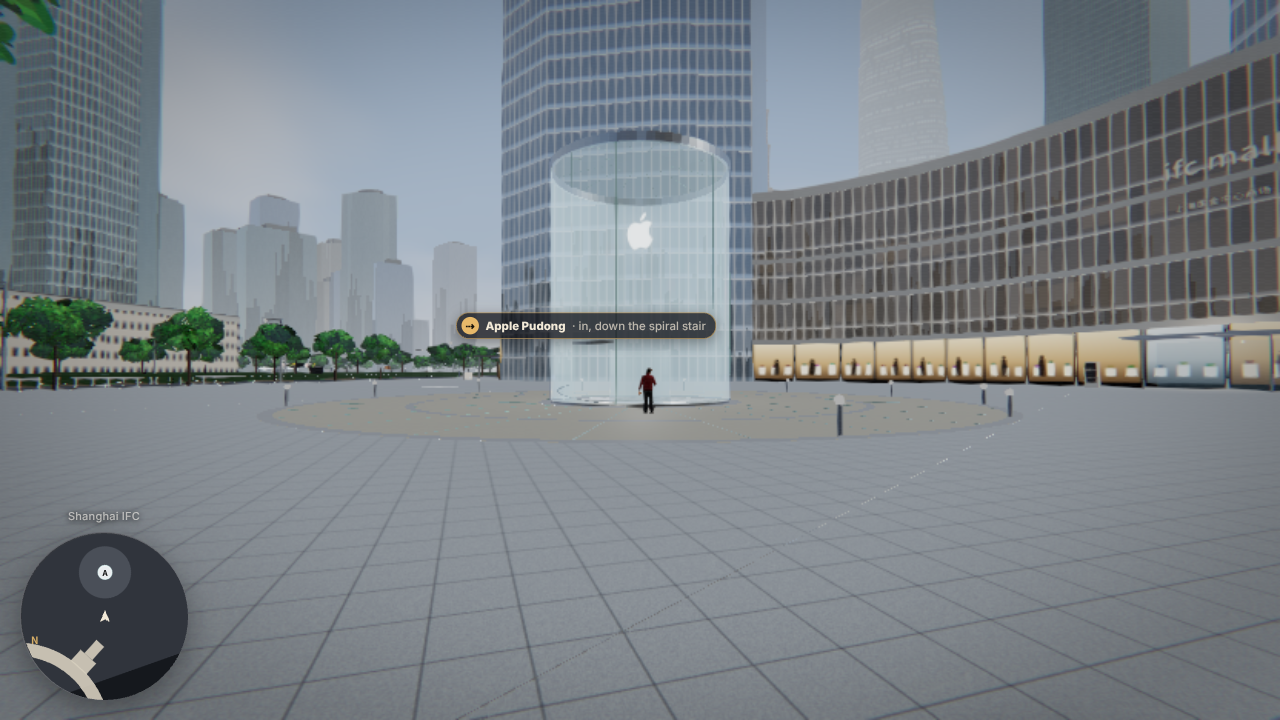
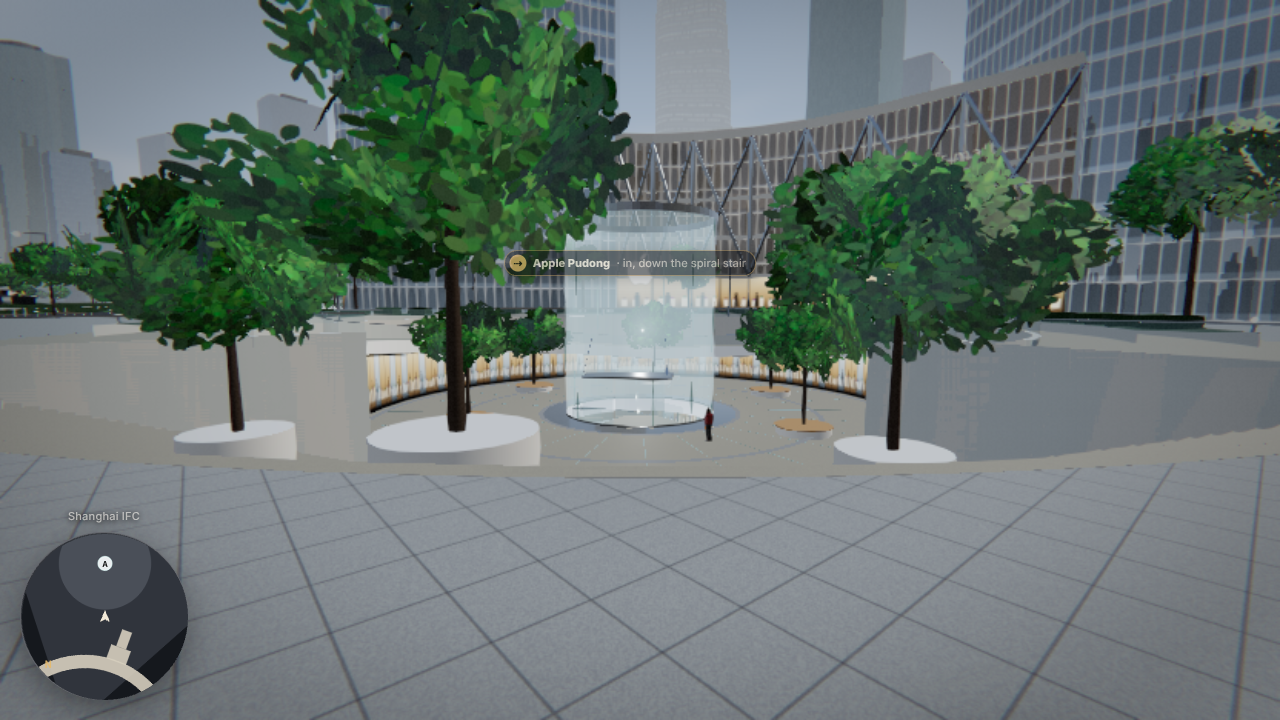
Apple Pudong: the sunken court, as the photographs show it
The cylinder stands in a sunken round court one storey down (OSM's paved
circle is its floor, its footway the walkways, its steps the broad steps):
broad steps with trees in planters down from the side toward the ring and
the Pearl; curved walkways behind glass balustrades sloping round the wall to
a landing at the back, an HSBC branch and a Starbucks beneath them; round
planters with timber seats; a glass rim, rim walk, planted bed and trumpet
lamps above. The cylinder gains a hung glass canopy over its door and a ring
of glass floor at its foot; the store moves one level down. The mall's glass
toward the court is X-braced. The river's plane stops at the Pudong bank
while you are there so it no longer shows through the court. Walk rules,
tests, walkthrough and docs follow.

Claude-Session: https://claude.ai/code/session_018TEJd4e7P4WktLNdqmW4gm

diff --git a/src/world/lujiazuiBuild.js b/src/world/lujiazuiBuild.js
@@ -11,7 +11,7 @@ import { markCanvas } from '../ui/brands.js';
 import { LINE_COLOR } from './nanjingRoad.js';
 import {
   C, RC, RING, ARMS, COLUMNS, SPUR, RAMPS, APPLE, METRO_LJZ, IFC, BUILDINGS, GREEN, LAKE, CANOPY, LOOP, BENCHES, YIN, ZEBRAS, CH, AVE, AVE_ROT, LOBBY, PEARL_PARK,
-  dirOf, polar, rpolar, fromAP, toAP, applePt, wellPt, carriage, inDistrict, inLake, inGreen, inPoly, inBuilding, polyDist, loopPt, addBox, addCircle, LJZ,
+  dirOf, polar, rpolar, fromAP, toAP, applePt, wellPt, carriage, inDistrict, inLake, inGreen, inPoly, inBuilding, polyDist, loopPt, addBox, addCircle, LJZ, rampY, stepsY,
 } from './lujiazuiLayout.js';
 import { facadeGlass } from './facade.js';
 import { kindAt, KIND, parkPath } from './lujiazuiGround.js';
@@ -161,16 +161,76 @@ function appleLogo() {
   const s = 512 * 0.8 / 24; x.translate(512 * 0.1, 512 * 0.1); x.scale(s, s); x.fillStyle = '#fff'; x.fill(new Path2D(siApple.path));
   return tex(c, { repeat: false, aniso: 8 });
 }
-export function buildApple(g, m, lights) {
-  const A = APPLE, yP = A.yPlaza, yS = A.yStore, o = A, E = A.entry, yCeil = yP - 1.0;
+export function buildApple(g, m, lights, trees = []) {
+  const A = APPLE, yP = A.yPlaza, yS = A.yStore, o = A, E = A.entry, yCeil = yP - 1.0, T = A.steps, RP = A.ramp;
   const floor = new Tris(1.6), band = new Tris(1.6), ag = new Tris(), seam = new Batch(), st = new Batch(), wood = new Batch(), ceil = new Tris(), storeWall = new Tris(), treads = new Tris(), dark = new Batch(), oak = new Tris(1.2);
-  // ---- the plaza: pale granite at street level, flush with the pavement; darker bands mark the cylinder's sill,
-  // a ring halfway out and the plaza's edge (the reflecting pool that once ringed the cylinder went in the rebuild)
-  floor.arc(o, A.rCyl + 0.6, A.rOut, 0, 360, yP, 90);
-  floor.arc(o, A.rCore, A.rCyl + 0.6, E + A.landing[0], E + A.landing[1], yP, 12);            // the landing inside the cylinder
-  floor.arc(o, A.rCyl, A.rCyl + 0.6, E + A.landing[1], E + 360 + A.landing[0], yP, 40);
-  for (const [r0, r1] of [[A.rCyl - 0.02, A.rCyl + 0.6], [11.7, 12.1], [A.rOut - 0.5, A.rOut]]) band.arc(o, r0, r1, 0, 360, yP + 0.004, 90);
-  for (let i = 0; i < 24; i++) { const b = E + 7.5 + i * 15, [x0, z0] = polar(b, A.rCyl + 0.6, o), [x1, z1] = polar(b, A.rOut - 0.5, o), [dx, dz] = dirOf(b); obox(seam, (x0 + x1) / 2, yP - 0.004, (z0 + z1) / 2, dx, dz, Math.hypot(x1 - x0, z1 - z0), 0.012, 0.05); }
+  const wallT = new Tris(2), gl = new Tris(), deck = new Tris(1.6), fascia = new Tris(), shopT = new Tris(), soil = new Tris(), glassFloor = new Tris(), stone = new Batch();
+  const B = (ang) => E + ang, P3 = (ang, r, y) => { const [x, z] = polar(E + ang, r, o); return [x, y, z]; };
+  // ---- the court's floor: pale granite, darker bands; a ring of glass floor round the cylinder's foot, over the store
+  floor.arc(o, A.rCyl + 1.5, A.rPlaza, 0, 360, yP, 90);
+  floor.arc(o, A.rCore, A.rCyl + 0.6, B(A.landing[0]), B(A.landing[1]), yP, 12);                   // the landing inside the cylinder
+  glassFloor.arc(o, A.rCyl + 0.05, A.rCyl + 1.5, 0, 360, yP + 0.003, 72);
+  floor.arc(o, A.rPlaza, A.rampIn, B(T.wall), B(360 - T.wall), yP, 60);                           // the floor's edge before the shops
+  for (const [r0, r1] of [[A.rCyl + 1.5, A.rCyl + 1.8], [11.7, 12.05], [A.rPlaza - 0.4, A.rPlaza]]) band.arc(o, r0, r1, 0, 360, yP + 0.004, 90);
+  for (let i = 0; i < 24; i++) { const b = E + 7.5 + i * 15, [x0, z0] = polar(b, A.rCyl + 1.8, o), [x1, z1] = polar(b, A.rPlaza - 0.4, o), [dx, dz] = dirOf(b); obox(seam, (x0 + x1) / 2, yP - 0.004, (z0 + z1) / 2, dx, dz, Math.hypot(x1 - x0, z1 - z0), 0.012, 0.05); }
+  // ---- the broad steps down from the street, toward the ring: 38 treads, side walls with glass on top
+  const nS = 38, run = (T.r1 - T.r0) / nS, riseS = (CH - yP) / nS;
+  for (let i = 0; i < nS; i++) { const r0 = T.r0 + i * run, y = yP + (i + 1) * riseS; floor.arc(o, r0, r0 + run, B(-T.wall), B(T.wall), y, 18); wallT.drum(o, r0, B(-T.wall), B(T.wall), y - riseS, y, 18); }
+  for (const sg of [-1, 1]) {
+    const ray = sg * T.wall, yStep = (r) => stepsY(r);
+    for (let i = 0; i < 14; i++) { const r0 = T.r0 + (T.r1 - T.r0) * i / 14, r1 = T.r0 + (T.r1 - T.r0) * (i + 1) / 14, a = P3(ray, r0, 0), b = P3(ray, r1, 0);
+      wallT.quad([a[0], yP, a[2]], [b[0], yP, b[2]], [b[0], CH + 0.4, b[2]], [a[0], CH + 0.4, a[2]]);
+      gl.quad([a[0], yStep(r0) + 0.1, a[2]], [b[0], yStep(r1) + 0.1, b[2]], [b[0], Math.max(CH + 0.4, yStep(r1) + 1.1), b[2]], [a[0], Math.max(CH + 0.4, yStep(r0) + 1.1), a[2]]);
+      gl.quad([a[0], CH + 0.4, a[2]], [b[0], CH + 0.4, b[2]], [b[0], CH + 1.2, b[2]], [a[0], CH + 1.2, a[2]]); }
+    const s0 = P3(ray, T.r0, 0), s1 = P3(ray, T.r1, 0); obox(st, (s0[0] + s1[0]) / 2, CH + 1.2, (s0[2] + s1[2]) / 2, s1[0] - s0[0], s1[2] - s0[2], Math.hypot(s1[0] - s0[0], s1[2] - s0[2]), 0.05, 0.08);
+    // the strip between the steps' wall and the walkway's top: solid, at street level
+    wallT.arc(o, A.rPlaza, A.rail, B(sg > 0 ? T.wall : -RP.a0), B(sg > 0 ? RP.a0 : -T.wall), CH + 0.4, 3);
+  }
+  // planters with trees on the steps
+  for (const p of A.stepTrees) { const [x, z] = applePt(p.ang, p.r), y = stepsY(p.r + p.rr); stone.cyl(x, stepsY(p.r - p.rr) - 0.05, z, p.rr, p.rr, y - stepsY(p.r - p.rr) + 0.5, 20); trees.push({ x, z, y: y + 0.45, h: 6.5, r: 2.4, solid: false }); }
+  // ---- the curved walkways either side: a deck sloping from the street to a landing at the back, a glass
+  // balustrade on the court side, the retaining wall behind; the shops beneath them at the floor
+  const nR = 48;
+  for (const sg of [-1, 1]) for (let i = 0; i < nR; i++) {
+    const a0 = RP.a0 + (180 - RP.a0) * i / nR, a1 = RP.a0 + (180 - RP.a0) * (i + 1) / nR, y0 = rampY(a0), y1 = rampY(a1), b0 = sg * a0, b1 = sg * a1;
+    deck.quad(P3(b0, A.rampIn, y0), P3(b0, A.rampOut + 0.05, y0), P3(b1, A.rampOut + 0.05, y1), P3(b1, A.rampIn, y1));
+    deck.quad(P3(b0, A.rampIn, y0 - 0.4), P3(b1, A.rampIn, y1 - 0.4), P3(b1, A.rampOut, y1 - 0.4), P3(b0, A.rampOut, y0 - 0.4));
+    fascia.quad(P3(b0, A.rampIn, y0 - 1.0), P3(b1, A.rampIn, y1 - 1.0), P3(b1, A.rampIn, y1 + 0.02), P3(b0, A.rampIn, y0 + 0.02));
+    gl.quad(P3(b0, A.rampIn + 0.08, y0), P3(b1, A.rampIn + 0.08, y1), P3(b1, A.rampIn + 0.08, y1 + 1.1), P3(b0, A.rampIn + 0.08, y0 + 1.1));
+    wallT.quad(P3(b0, A.rampOut + 0.05, yP), P3(b1, A.rampOut + 0.05, yP), P3(b1, A.rampOut + 0.05, CH + 0.3), P3(b0, A.rampOut + 0.05, CH + 0.3));
+    if (a0 > T.wall + 2) shopT.quad(P3(b0, A.rShop, yP), P3(b1, A.rShop, yP), P3(b1, A.rShop, y1 - 1.0), P3(b0, A.rShop, y0 - 1.0), [[i / 6, 0], [(i + 1) / 6, 0], [(i + 1) / 6, Math.min(1, (y1 - 1.0 - yP) / 3.6)], [i / 6, Math.min(1, (y0 - 1.0 - yP) / 3.6)]]);
+    { const p0 = P3(b0, A.rampIn + 0.08, y0 + 1.1), p1 = P3(b1, A.rampIn + 0.08, y1 + 1.1), dv = new THREE.Vector3(p1[0] - p0[0], p1[1] - p0[1], p1[2] - p0[2]), L = dv.length() + 0.02, geo = new THREE.BoxGeometry(0.07, 0.06, L);
+      geo.applyQuaternion(new THREE.Quaternion().setFromUnitVectors(new THREE.Vector3(0, 0, 1), dv.normalize())); geo.translate((p0[0] + p1[0]) / 2, (p0[1] + p1[1]) / 2, (p0[2] + p1[2]) / 2); st.push(geo); }
+  }
+  // the rim: glass balustrade round the top of the wall, open where the walkways and the steps begin; the rim walk's paving; the planted bed
+  const open = (ang) => Math.abs(ang) <= T.wall || (Math.abs(ang) >= RP.a0 && Math.abs(ang) <= RP.top);
+  for (let i = 0; i < 120; i++) { const a0 = -180 + i * 3, a1 = a0 + 3; if (open(a0 + 1.5)) continue; gl.drum(o, A.rail, B(a0), B(a1), CH, CH + 1.1, 1); const p0 = P3(a0, A.rail, 0), p1 = P3(a1, A.rail, 0); obox(st, (p0[0] + p1[0]) / 2, CH + 1.1, (p0[2] + p1[2]) / 2, p1[0] - p0[0], p1[2] - p0[2], Math.hypot(p1[0] - p0[0], p1[2] - p0[2]) + 0.02, 0.06, 0.09); }
+  wallT.arc(o, A.rampOut + 0.05, A.rail + 0.05, B(RP.top), B(360 - RP.top), CH + 0.3, 60);
+  floor.arc(o, A.rail, A.rOut, B(T.wall), B(360 - T.wall), CH, 80);
+  for (const sg of [-1, 1]) floor.arc(o, A.rampIn, A.rail, B(sg > 0 ? RP.a0 : -RP.top), B(sg > 0 ? RP.top : -RP.a0), CH, 4);
+  soil.arc(o, A.plant.r0, A.plant.r1, B(A.plant.a0), B(360 - A.plant.a0), CH + 0.55, 60);
+  wallT.drum(o, A.plant.r0, B(A.plant.a0), B(360 - A.plant.a0), CH, CH + 0.55, 60); wallT.drum(o, A.plant.r1, B(A.plant.a0), B(360 - A.plant.a0), CH, CH + 0.55, 60);
+  for (let a = A.plant.a0 + 8; a < 360 - A.plant.a0 - 4; a += 7) { const [x, z] = applePt(a, (A.plant.r0 + A.plant.r1) / 2); soil.arc({ x, z }, 0, 1.2, 0, 360, CH + 1.15, 8); soil.drum({ x, z }, 1.2, 0, 360, CH + 0.55, CH + 1.15, 8); }
+  for (let a = A.plant.a0 + 18; a < 360 - A.plant.a0; a += 26) { const [x, z] = applePt(a, (A.plant.r0 + A.plant.r1) / 2 + 0.5); trees.push({ x, z, y: CH + 0.55, h: 7.5 + (a % 3), r: 2.6, solid: false }); }
+  // lamps on the rim walk: a slim post, a white trumpet of a head
+  for (let a = 62; a <= 298; a += 34) { const [x, z] = applePt(a, A.walk - 0.5); st.cyl(x, CH, z, 0.07, 0.09, 5.6, 10); stone.cyl(x, CH + 5.6, z, 0.12, 0.62, 0.75, 16); lights.push({ x, y: CH + 5.9, z, intensity: 18, distance: 16, color: new THREE.Color(1.0, 0.9, 0.75), out: true }); addCircle(x, z, 0.14, { y1: 3 }); }
+  // planters on the court's floor: stone drums with timber seats round them, a tree in each
+  for (const p of A.planters) { const [x, z] = applePt(p.ang, p.r); stone.cyl(x, yP, z, p.rr, p.rr, 0.42, 24); wood.cyl(x, yP + 0.42, z, p.rr + 0.06, p.rr + 0.06, 0.06, 24); trees.push({ x, z, y: yP + 0.48, h: 6 + (p.r % 2), r: 2.3, solid: false }); }
+  // the shops' names over their fronts: an HSBC branch on the right (as you look in from the steps), a Starbucks
+  // (letters and mark on the walkway's white fascia above each, as in the photographs)
+  const brand = (slug, color, text, ang, w) => { const [c, x] = makeCanvas(1024, 128); x.clearRect(0, 0, 1024, 128); x.drawImage(markCanvas(slug, { color, size: 120, pad: 0.04 }), 10, 4, 120, 120); x.fillStyle = slug === 'hsbc' ? '#222' : color; x.font = `800 92px ${FONT.sans}`; x.textBaseline = 'middle'; x.fillText(text, 150, 68);
+    const mat = new THREE.MeshBasicMaterial({ map: tex(c, { repeat: false, aniso: 8 }), transparent: true, side: THREE.DoubleSide, depthWrite: false }); mat.userData.todSkip = true;
+    const y = rampY(Math.abs(ang)) - 0.5, [px, pz] = applePt(ang, A.rampIn - 0.34), p = new THREE.Mesh(new THREE.PlaneGeometry(w, w / 8), mat); p.position.set(px, y, pz); p.rotation.y = Math.atan2(...dirOf(B(ang) + 180)); p.renderOrder = 2; g.add(p); };
+  brand('hsbc', '#db0011', 'HSBC 汇丰', 112, 6.4); brand('starbucks', '#00704a', 'STARBUCKS', -128, 6.4);
+  // the cylinder's door: a flat glass canopy on a slim stainless frame
+  { const c = P3(0, A.rCyl + 1.1, yP + 3.2), [dx, dz] = dirOf(E), [tx, tz] = dirOf(E + 90); obox(st, c[0], c[1], c[2], tx, tz, 5.0, 0.1, 2.2); const cg = new Tris(); cg.quad([c[0] - tx * 2.4 - dx * 1.0, c[1] + 0.11, c[2] - tz * 2.4 - dz * 1.0], [c[0] + tx * 2.4 - dx * 1.0, c[1] + 0.11, c[2] + tz * 2.4 - dz * 1.0], [c[0] + tx * 2.4 + dx * 1.0, c[1] + 0.11, c[2] + tz * 2.4 + dz * 1.0], [c[0] - tx * 2.4 + dx * 1.0, c[1] + 0.11, c[2] - tz * 2.4 + dz * 1.0]); gl.p.push(...cg.p); gl.n.push(...cg.n); gl.u.push(...cg.u);
+    for (const s2 of [-2.3, 2.3]) { const hx = c[0] + tx * s2 + dx * 1.9, hz = c[2] + tz * s2 + dz * 1.9, ex = c[0] + tx * s2 * 0.9, ez = c[2] + tz * s2 * 0.9, dv = new THREE.Vector3(ex - hx, 2.2, ez - hz), L = dv.length(), geo = new THREE.BoxGeometry(0.02, 0.02, L); geo.applyQuaternion(new THREE.Quaternion().setFromUnitVectors(new THREE.Vector3(0, 0, 1), dv.normalize())); geo.translate((hx + ex) / 2, c[1] + 1.1, (hz + ez) / 2); st.push(geo); } }   // (hung on two rods from the glass)
+  const glassFloorMat = new THREE.MeshPhysicalMaterial({ color: 0x24343a, roughness: 0.05, metalness: 0.2, clearcoat: 1, envMapIntensity: 1.5, emissive: 0x3a3226, emissiveIntensity: 0.6 });
+  const addC = (o2, cast = true) => { o2.castShadow = cast; o2.receiveShadow = true; g.add(o2); return o2; };
+  addC(wallT.mesh(std({ color: 0xcfcbc2, roughness: 0.65 }), 'ljz-apple-court-walls')); addC(deck.mesh(m.stone, 'ljz-apple-walkways')); addC(fascia.mesh(m.white, 'ljz-apple-fascia'));
+  addC(soil.mesh(m.hedge, 'ljz-apple-planting')); addC(stone.mesh(std({ color: 0xd9d6cf, roughness: 0.6 }), 'ljz-apple-planters')); addC(glassFloor.mesh(glassFloorMat, 'ljz-apple-glass-floor'), false);
+  g.add(shopT.mesh(asLight(new THREE.MeshBasicMaterial({ map: shopfronts(), side: THREE.DoubleSide }), 'shops', 0.3), 'ljz-apple-court-shops'));
+  { const gm2 = gl.mesh(m.glass, 'ljz-apple-court-glass'); gm2.renderOrder = 3; g.add(gm2); }
   // ---- the glass cylinder: twelve curved panels butted with no fins or fittings, a stainless ring round the
   // top, and a shallow dome of twelve curved panels meeting a glass disc
   const yTop = yP + A.cylH, doorH = 3.0, rise = 0.55;
@@ -354,6 +414,16 @@ export function buildIfc(g, m, lights) {
       g.add(sign(['国金中心商场 · ifc mall', 'Apple · 浦东丽思卡尔顿酒店 Ritz-Carlton · 地铁2号线 Metro'], { w: 1.0, h: 1.9, x: tx + F.nx * 0.16, y: CH + 1.5, z: tz + F.nz * 0.16, ry, color: '#f2ede2', bg: '#2b2d31', ch: null, gain: 1.1 })); }
     lights.push({ x: ex + F.nx * 3, y: 4.6, z: ez + F.nz * 3, intensity: 22, distance: 16, color: new THREE.Color(1.0, 0.92, 0.8) });
   }
+  // the mall's glass toward the Apple court is braced by a giant steel X in each bay (as the photographs show)
+  { const xb = new Batch(), mem = (a, b) => { const d = new THREE.Vector3(b[0] - a[0], b[1] - a[1], b[2] - a[2]), L = d.length(), geo = new THREE.BoxGeometry(0.45, 0.45, L); geo.applyQuaternion(new THREE.Quaternion().setFromUnitVectors(new THREE.Vector3(0, 0, 1), d.normalize())); geo.translate((a[0] + b[0]) / 2, (a[1] + b[1]) / 2, (a[2] + b[2]) / 2); xb.push(geo); };
+    for (let i = 0; i < MP.length; i++) {
+      const [x0, z0] = MP[i], [x1, z1] = MP[(i + 1) % MP.length], l = Math.hypot(x1 - x0, z1 - z0); if (l < 6) continue;
+      const nx = (z1 - z0) / l, nz = -(x1 - x0) / l, mx = (x0 + x1) / 2, mz = (z0 + z1) / 2, d = Math.hypot(APPLE.x - mx, APPLE.z - mz);
+      if (d > 75 || ((APPLE.x - mx) * nx + (APPLE.z - mz) * nz) / d < 0.25) continue;
+      const nb = Math.max(1, Math.round(l / 16)), o2 = 0.35, Pt = (f, y) => [x0 + (x1 - x0) * f + nx * o2, y, z0 + (z1 - z0) * f + nz * o2];
+      for (let k = 0; k < nb; k++) { const f0 = k / nb, f1 = (k + 1) / nb; mem(Pt(f0, 6.4), Pt(f1, MH - 0.6)); mem(Pt(f1, 6.4), Pt(f0, MH - 0.6)); mem(Pt(f0, 6.4), Pt(f0, MH - 0.6)); }
+    }
+    if (!xb.empty) { const o3 = xb.mesh(m.steel, 'ljz-ifc-mall-braces'); o3.castShadow = true; g.add(o3); } }
   // the same name where the mall meets the avenue
   { const F2 = faceToward(MP, ...fromAP(260, 0)); if (F2) g.add(sign(['ifc mall', '上海国金中心商场'], { w: 16, h: 4.4, x: F2.x + F2.nx * 0.4, y: MH - 8, z: F2.z + F2.nz * 0.4, ry: Math.atan2(F2.nx, F2.nz), color: '#f6f3ec', bg: null, ch: 'signs', gain: 1.4 })); }
   // the north tower's lobby on Century Avenue: a tall glass front, a canopy, revolving doors, the address stone

diff --git a/src/world/lujiazuiLayout.js b/src/world/lujiazuiLayout.js
@@ -87,20 +87,38 @@ function obb(P) {
   return best;
 }
 
-// Apple Pudong (No. 1, IFC Mall, OSM way 255624910 under the paved round plaza, way 166128036): the
-// plaza at street level, the 13 m glass cylinder (5 m radius, twelve curved panels, a stainless ring and a
-// shallow glass dome since the rebuild) at its centre, and inside it the spiral glass stair, cantilevered
-// off a second glass drum (the lift), down to the store under the plaza. Angles are measured clockwise
-// from the cylinder's door, which faces the Mingzhu Ring and the Pearl.
+// Apple Pudong (No. 1, IFC Mall): a sunken round court one storey down (OSM's paved circle, way 166128036,
+// is its floor; the footway round it, way 166128035, the curved walkways; way 166128038 the broad steps
+// up toward the Mingzhu Ring), and as the photographs show it:
+//  - broad steps down from the street on the side toward the ring, trees in planters on them;
+//  - round the rest of the wall, a curved walkway either side behind a glass balustrade, sloping from
+//    the street at the top of the steps down to a landing at the back (by the mall's door), shops at
+//    the court's floor beneath it (an HSBC branch, a Starbucks);
+//  - on the floor, round planters with timber seats, and the 13 m glass cylinder (5 m radius, twelve
+//    curved panels, a stainless ring and a shallow glass dome since the rebuild), a flat glass canopy
+//    over its door, a ring of glass floor round its foot over the store;
+//  - inside the cylinder the spiral glass stair round the glass lift, down to the store under the court
+//    (OSM: level -2, way 255624910).
+// Angles are measured clockwise from the cylinder's door, which faces the steps, the ring and the Pearl.
 const [APX, APZ, APR] = OSM_POINTS.applePlaza;
 export const APPLE = {
-  x: APX, z: APZ, entry: 316, rPlaza: APR, rOut: APR, yPlaza: CH, yStore: CH - 5.6, rCyl: 5, rCore: 1.7, cylH: 13, storeR: 16.2,
+  x: APX, z: APZ, entry: 316,
+  yPlaza: CH - 5.65, yStore: CH - 5.65 - 5.6,                               // the court's floor (the cylinder stands on it), the store's
+  rPlaza: APR, rShop: 17.9, rampIn: 18.3, rampOut: 21.3, rail: 21.6, walk: 24, rOut: 31,
+  steps: { half: 34, wall: 37, r0: APR, r1: 31 },                          // the broad steps: |angle| <= half, from the floor (r0) up to the street (r1)
+  ramp: { a0: 39, top: 49, yBack: CH - 3.0 },                              // the walkways: in from the street at |angle| 39..49, down to yBack at the back
+  plant: { r0: 25, r1: 28.6, a0: 64 },                                     // the planted bed behind the rim walk
+  rCyl: 5, rCore: 1.7, cylH: 13, storeR: 16.2,
   spiral: { start: 25, total: 400, drop: 5.6, r0: 1.95, r1: 4.35 }, landing: [-40, 25], door: 13.5, foot: [57, 88],
-  // the store's oak tables (each along a radius): an inner ring and an outer one, clear of the stair's foot and the video wall
   tables: [[125, 9], [165, 9], [205, 9], [295, 9], [330, 9], [10, 9.4], [140, 13.4], [185, 13.4], [225, 13.4], [345, 13.4]].map(([ang, r]) => ({ ang, r })),
-  mall: 194,                                                                // the store's back, toward the mall (its lower-ground door)
+  mall: 194,
+  planters: [[62, 11.2], [-62, 11.2], [128, 12.4], [-128, 12.4], [180, 13]].map(([ang, r]) => ({ ang, r, rr: 1.55 })),   // on the court's floor
+  stepTrees: [[-20, 24.5], [20, 24.5], [0, 27.8]].map(([ang, r]) => ({ ang, r, rr: 1.3 })),                                  // on the broad steps
   store: pts2(OSM_AREAS.appleStore),
 };
+// the walkway's height at |angle| a
+export const rampY = (a) => (a <= APPLE.ramp.top ? CH : CH + (APPLE.ramp.yBack - CH) * Math.min(1, (a - APPLE.ramp.top) / (180 - APPLE.ramp.top)));
+export const stepsY = (r) => APPLE.yPlaza + (CH - APPLE.yPlaza) * Math.max(0, Math.min(1, (r - APPLE.steps.r0) / (APPLE.steps.r1 - APPLE.steps.r0)));
 export const appleAng = (x, z) => wrap180(bearingOf(x, z, APPLE) - APPLE.entry);
 export const applePt = (ang, r) => polar(APPLE.entry + ang, r, APPLE);
 
@@ -214,9 +232,13 @@ export function ljzGround(x, z, y = 0) {
   if (!(x > 500 && x < 1500 && z > -260 && z < 780) || y > 60) return null;      // not here (the 32nd floor is destinations.js's)
   const ax = x - APPLE.x, az = z - APPLE.z, ra2 = ax * ax + az * az;
   if (ra2 < APPLE.rOut * APPLE.rOut) {
-    const ra = Math.sqrt(ra2), ang = appleAng(x, z);
-    if (ra < APPLE.rCyl) return spiralY(ang, y);
-    return y < APPLE.yPlaza - 3 && ra < APPLE.storeR + 0.5 ? APPLE.yStore : APPLE.yPlaza;
+    const A = APPLE, ra = Math.sqrt(ra2), ang = appleAng(x, z), aa = Math.abs(ang);
+    if (ra < A.rCyl) return spiralY(ang, y);
+    if (ra <= A.rPlaza) return y < A.yPlaza - 3 && ra < A.storeR + 0.5 ? A.yStore : A.yPlaza;
+    if (aa <= A.steps.wall) return aa <= A.steps.half + 1 ? stepsY(ra) : (ra < A.rail ? A.yPlaza : CH);
+    if (ra < A.rampIn) return A.yPlaza;                                                  // the floor's edge before the shops
+    if (ra <= A.rampOut + 0.1) return aa >= A.ramp.a0 ? rampY(aa) : CH;
+    return CH;
   }
   for (let i = 0; i < METRO_LJZ.length; i++) {
     const m = METRO_LJZ[i], t = (x - m.top[0]) * m.dx + (z - m.top[1]) * m.dz;
@@ -284,35 +306,62 @@ function clampR(p, o, lo, hi) {
 function setAppleAng(p, ang) { const r = Math.hypot(p.x - APPLE.x, p.z - APPLE.z), [x, z] = applePt(ang, r); p.x = x; p.z = z; }
 
 // what the body is on (a bridge stair), remembered from step to step
-const S = { x: NaN, z: NaN, y: 0, ramp: -1 };
+const S = { x: NaN, z: NaN, y: 0, ramp: -1, pit: false };
 export const ljzState = S;
 function infer(b) {
   S.ramp = -1;
+  { const ra = Math.hypot(b.x - APPLE.x, b.z - APPLE.z); S.pit = ra < APPLE.rOut && (b.y < CH - 0.3 || ra < APPLE.rail); }
   for (let i = 0; i < RAMPS.length; i++) { const [t, l] = rampLocal(RAMPS[i], b.x, b.z); if (t >= 0 && t <= RAMPS[i].run && Math.abs(l) < RAMPS[i].hw) S.ramp = i; }
 }
-// Apple Pudong: inside the cylinder and down in the store it has its own walls; out on the plaza only the
-// cylinder's glass (but for its door). True when it has dealt with the body.
+// Apple Pudong's court: once in it (down the broad steps, or on to a walkway from the street) it has its
+// own walls; the street round it has the rim's balustrade and the planted bed behind the rim walk.
 const inStore = (b) => b.y < APPLE.yPlaza - 3 && Math.hypot(b.x - APPLE.x, b.z - APPLE.z) < APPLE.storeR + 1;
-function keepApple(b) {
-  const A = APPLE, yP = A.yPlaza;
+const pushCircle = (b, x, z, r) => { const dx = b.x - x, dz = b.z - z, d = Math.hypot(dx, dz); if (d < r && d > 1e-6) { b.x = x + dx / d * r; b.z = z + dz / d * r; return true; } return false; };
+function keepCourt(b) {
+  const A = APPLE, yP = A.yPlaza, T = A.steps;
   let ra = Math.hypot(b.x - A.x, b.z - A.z), ang = appleAng(b.x, b.z), aa = Math.abs(ang);
-  if (inStore(b)) {                                           // ---- the store, under the plaza
+  if (inStore(b)) {                                           // ---- the store, under the court
     if (ra < A.rCyl + 0.1) {                                  // at the foot of the spiral stair, inside its drum
       clampR(b, A, A.spiral.r0, ang >= A.foot[0] && ang <= A.foot[1] ? 99 : A.spiral.r1);
       if (ang > A.foot[1] || ang < -120) setAppleAng(b, A.foot[1]);
     } else if (ra < A.rCyl + RAD + 0.15 && !(ang >= A.foot[0] && ang <= A.foot[1])) clampR(b, A, A.rCyl + RAD + 0.15, 99);
     clampR(b, A, 0, A.storeR - RAD);
-    for (const t of A.tables) for (const k of [-1, 0, 1]) { const [x, z] = applePt(t.ang, t.r + k * 1.05), dx = b.x - x, dz = b.z - z, d = Math.hypot(dx, dz); if (d < 0.75 + RAD && d > 1e-6) { b.x = x + dx / d * (0.75 + RAD); b.z = z + dz / d * (0.75 + RAD); } }
-    return true;
+    for (const t of A.tables) for (const k of [-1, 0, 1]) { const [x, z] = applePt(t.ang, t.r + k * 1.05); pushCircle(b, x, z, 0.75 + RAD); }
+    return;
   }
   if (ra < A.rCyl) {                                          // ---- inside the glass cylinder
     clampR(b, A, A.spiral.r0, A.rCyl - RAD - 0.1 + (aa < A.door && b.y > yP - 0.4 ? 1.5 : 0));
     if (b.y > yP - 0.25 && ang < A.landing[0]) setAppleAng(b, A.landing[0]);        // the landing's back rail
     if (b.y <= yP - 0.25) clampR(b, A, A.spiral.r0, A.spiral.r1);
-    return true;
+    return;
   }
-  if (ra < A.rCyl + RAD + 0.1 && aa > A.door) clampR(b, A, A.rCyl + RAD + 0.1, 99);   // the glass, but for its door
-  return false;
+  if (b.y > yP + 1.2 && ra >= A.rampIn - 0.3 && aa >= A.ramp.a0 - 1) {   // ---- on a walkway
+    clampR(b, A, A.rampIn + RAD, aa <= A.ramp.top ? 99 : A.rampOut - RAD);
+    if (aa < A.ramp.a0 + RAD) setAppleAng(b, Math.sign(ang || 1) * (A.ramp.a0 + RAD));
+    if (Math.hypot(b.x - A.x, b.z - A.z) > A.rampOut + 0.2) S.pit = false;            // out on to the street at the top
+    return;
+  }
+  // ---- the floor and the broad steps
+  if (ra < A.rCyl + RAD + 0.1 && aa > A.door) clampR(b, A, A.rCyl + RAD + 0.1, 99);    // the glass, but for its door
+  ra = Math.hypot(b.x - A.x, b.z - A.z); ang = appleAng(b.x, b.z); aa = Math.abs(ang);
+  if (ra > A.rShop - RAD && aa > T.half - 0.5) {
+    if (ra < A.rShop + 1.2) clampR(b, A, 0, A.rShop - RAD); else setAppleAng(b, Math.sign(ang || 1) * (T.half - 0.5));
+  }
+  for (const p of A.planters) { const [x, z] = applePt(p.ang, p.r); pushCircle(b, x, z, p.rr + RAD); }
+  for (const p of A.stepTrees) { const [x, z] = applePt(p.ang, p.r); pushCircle(b, x, z, p.rr + RAD); }
+  if (Math.hypot(b.x - A.x, b.z - A.z) > T.r1 + 0.3) S.pit = false;                     // up the steps on to the street
+}
+// at street level round the court: the rim's balustrade, the planted bed; in only by the steps or a walkway's top
+function keepRim(b) {
+  const A = APPLE, T = A.steps, ra = Math.hypot(b.x - A.x, b.z - A.z), ang = appleAng(b.x, b.z), aa = Math.abs(ang);
+  if (ra > A.rOut + 0.5) return;
+  if (aa <= T.half - 0.5) { if (ra < T.r1 + 0.2) S.pit = true; return; }                      // stepping on to the broad steps
+  if (aa >= A.ramp.a0 + 0.5 && aa <= A.ramp.top - 0.5 && ra < A.rail + 0.3) { if (ra < A.rampOut) S.pit = true; return; }   // on to a walkway's top
+  if (ra < T.r1 && aa < T.wall + 0.6) { setAppleAng(b, Math.sign(ang || 1) * (T.wall + 0.6)); }   // the steps' side balustrade
+  const r2 = Math.hypot(b.x - A.x, b.z - A.z);
+  if (r2 < A.rail + RAD && !(aa >= A.ramp.a0 && aa <= A.ramp.top)) clampR(b, A, A.rail + RAD, 999);
+  const a2 = Math.abs(appleAng(b.x, b.z));
+  if (a2 > A.plant.a0 && r2 > A.plant.r0 - RAD && r2 < A.plant.r1 + RAD) clampR(b, A, r2 < (A.plant.r0 + A.plant.r1) / 2 ? 0 : A.plant.r1 + RAD, r2 < (A.plant.r0 + A.plant.r1) / 2 ? A.plant.r0 - RAD : 999);
 }
 function keepRamp(b) {
   const R = RAMPS[S.ramp], [t, l] = rampLocal(R, b.x, b.z);
@@ -348,8 +397,9 @@ export function ljzKeep(b) {
 }
 function step(b) {
   const A = APPLE, ra = Math.hypot(b.x - A.x, b.z - A.z);
-  // Apple: the cylinder, its stair and the store under the plaza
-  if ((inStore(b) || ra < A.rCyl + RAD + 0.2) && keepApple(b)) return;
+  // Apple: the court, the cylinder, its stair, the store; the street round the court
+  if (S.pit || inStore(b)) { keepCourt(b); if (S.pit || inStore(b)) return; }
+  else if (ra < A.rOut + 0.5) keepRim(b);
   // the bridge's stairs
   if (S.ramp >= 0 && keepRamp(b)) return;
   for (let i = 0; i < RAMPS.length; i++) {
@@ -463,7 +513,7 @@ export const LJZ = {
   ifcLobbyStand: P2(LOBBY.x + LOBBY.nx * 2.5, LOBBY.z + LOBBY.nz * 2.5, { y: CH, yaw: yawTo(LOBBY.nx, LOBBY.nz) }),       // where you stand, back to the door
   officeLift: P2(689.9, 55.6, { y: 134.4 }),                                             // the lift on 32F (world/destinations.js PLACES.lujiazui.lift)
   kerbPickup: P2(kerb[0], kerb[1], { y: CH, yaw: yawTo(NX, NZ) }),                       // DiDi set-down and pick-up, Century Avenue's south kerb by Two IFC
-  appleEntrance: P2(...applePt(0, APPLE.rCyl + 7), { y: CH }),                          // on the plaza, in front of the cylinder's door
+  appleEntrance: P2(...applePt(0, APPLE.steps.r1 + 1.5), { y: CH }),                     // at the top of the broad steps down into the court
   appleCylinderDoor: P2(...applePt(0, APPLE.rCyl + 0.8), { y: APPLE.yPlaza }),
   appleStore: P2(...applePt(75, 9), { y: APPLE.yStore }),
   metroExits: METRO_LJZ.map((m) => { const [x, z] = wellPt(m, -1.4), [lx, lz] = wellPt(m, m.len - 1.3); return { exit: m.exit, x, z, y: CH, landing: { x: lx, z: lz, y: -m.depth }, name: m.name }; }),
@@ -479,7 +529,7 @@ export const LJZ = {
 export const inPudong = (x, y = 0) => x > 480 && y < 60;
 // a coarse name for where you are in it
 export function ljzZone(x, z, y = 0) {
-  if (y < APPLE.yPlaza - 3) return 'apple';
+  if (y < APPLE.yPlaza - 3 && Math.hypot(x - APPLE.x, z - APPLE.z) < APPLE.storeR + 1) return 'apple';
   const ra = Math.hypot(x - APPLE.x, z - APPLE.z);
   if (ra < APPLE.rOut) return 'apple';
   for (const m of METRO_LJZ) { const [t, l] = wellLocal(m, x, z); if (t > -3 && t < m.len + 1 && Math.abs(l) < m.hw + 1.5) return 'ljzMetro'; }

diff --git a/src/world/lujiazui.js b/src/world/lujiazui.js
@@ -48,7 +48,7 @@ export function createLujiazui({ scene, camera, M, people, hud, audio, player, t
       const o = new THREE.Mesh(geo, mat); o.name = `ljz-${name}`; o.matrixAutoUpdate = false; o.receiveShadow = true; o.castShadow = !!cast; if (name === 'kerbs') mat.side = THREE.DoubleSide; root.add(o);
     }
     { const far = new THREE.Mesh(new THREE.PlaneGeometry(2600, 2600).rotateX(-Math.PI / 2), new THREE.MeshStandardMaterial({ color: 0x2c2f33, roughness: 1 })); far.position.set(1000, -12, 300); far.name = 'ljz-far-ground'; root.add(far); }
-    buildBridge(root, m, kit); buildApple(root, m, kit); buildIfc(root, m, kit); buildMetro(root, m, kit);
+    buildBridge(root, m, kit); buildApple(root, m, kit, trees); buildIfc(root, m, kit); buildMetro(root, m, kit);
     buildGreen(root, m, kit, trees); buildSurroundings(root, m, kit, trees);
     heads = buildStreet(root, m, kit);
     const cards = buildTrees(root, trees);
@@ -58,7 +58,7 @@ export function createLujiazui({ scene, camera, M, people, hud, audio, player, t
     const L = LJZ.ifcLobbyDoor, K = LJZ.kerbPickup, AD = LJZ.appleCylinderDoor, toC = dirOf(APPLE.entry);
     ent = createEntrances({ scene, camera, list: [
       { id: 'ljz-ifc', name: ['国金中心 · 办公楼', 'IFC · the office tower'], act: ['上楼', 'go up'], x: L.x, z: L.z, nx: L.nx, nz: L.nz, y: CH, w: 5 },
-      { id: 'ljz-apple', name: ['Apple 浦东', 'Apple Pudong'], act: ['进去 · 旋转楼梯', 'in, down the spiral stair'], x: AD.x - toC[0] * 0.4, z: AD.z - toC[1] * 0.4, nx: toC[0], nz: toC[1], y: CH, w: 3, glow: false },
+      { id: 'ljz-apple', name: ['Apple 浦东', 'Apple Pudong'], act: ['进去 · 旋转楼梯', 'in, down the spiral stair'], x: AD.x - toC[0] * 0.4, z: AD.z - toC[1] * 0.4, nx: toC[0], nz: toC[1], y: APPLE.yPlaza, w: 3, glow: false },
       ...METRO_LJZ.map((W) => ({ id: `ljz-m${W.exit}`, name: [`陆家嘴站 ${W.exit} 号口`, `Lujiazui station, Exit ${W.exit}`], act: ['下楼 · 2号线', 'down to Line 2'], x: W.top[0] - W.dx * 0.8, z: W.top[1] - W.dz * 0.8, nx: -W.dx, nz: -W.dz, y: CH, w: 3, open: metroOpen, glow: false })),
       { id: 'ljz-didi', name: ['网约车上下客点', 'Ride-hailing point'], act: ['回外滩', 'a car back to the Bund'], x: K.x, z: K.z, nx: LJZ.ifcLobbyStand.x - K.x, nz: LJZ.ifcLobbyStand.z - K.z, y: CH, w: 3, glow: false },
     ].map((e) => { const l = Math.hypot(e.nx, e.nz) || 1; return { ...e, nx: e.nx / l, nz: e.nz / l }; }) });
@@ -80,6 +80,9 @@ export function createLujiazui({ scene, camera, M, people, hud, audio, player, t
     // river: not drawn while you're here. Its façades, the promenade, the river and the sky stay.
     if (on) { stowed = scene.children.filter((o) => o.visible && o !== root && !KEEP.has(o.name) && !o.isLight && !o.isCamera); for (const o of stowed) o.visible = false; }
     else { for (const o of stowed) o.visible = true; stowed = []; }
+    // the river's surface is one plane reaching far under Pudong (its ground hides it); here the Apple court
+    // and the store go below it, so while you're here it stops at the Pudong bank
+    { const w = scene.getObjectByName('water'); if (w && w.geometry.parameters) { const W = w.geometry.parameters.width; if (!w.userData.home) w.userData.home = { x: w.position.x, sx: w.scale.x }; const x0 = w.userData.home.x - W / 2, x1 = on ? 500 : x0 + W; w.scale.x = (x1 - x0) / W; w.position.x = (x0 + x1) / 2; w.updateMatrix(); w.updateMatrixWorld(true); } }
     if (!on) { for (const b of carBoxes) b.minX = b.maxX = b.minZ = b.maxZ = 1e6; if (ent) ent.update(0.2, { eye: camera.position, active: false }); }
   }
 
@@ -198,7 +201,7 @@ export function createLujiazui({ scene, camera, M, people, hud, audio, player, t
     sceneLine(clock, raining, extra = '') {
       const b = player.body, z = ljzZone(b.x, b.z, b.y);
       const where = { ring: 'the Mingzhu Ring, the circular footbridge over the Lujiazui roundabout in Pudong, traffic going round below, the Oriental Pearl Tower just to the north-north-west',
-        apple: b.y < APPLE.yPlaza - 3 ? 'the Apple store under the plaza at IFC in Lujiazui, long oak tables, the spiral glass stair up into the glass cylinder' : 'the plaza of Apple Pudong in front of the IFC mall, the 13-metre glass cylinder with the spiral stair in it, the mall\'s curved glass front behind; the Oriental Pearl Tower across the roundabout',
+        apple: b.y < APPLE.yPlaza - 3 ? 'the Apple store under the sunken court at IFC in Lujiazui, long oak tables, the spiral glass stair up into the glass cylinder' : 'the sunken round court of Apple Pudong in front of the IFC mall: the 13-metre glass cylinder with the spiral stair in it, broad steps up toward the Oriental Pearl Tower, curved walkways round the wall over an HSBC branch and a Starbucks, trees in planters',
         green: 'Lujiazui Central Green, the lawn and the lake in the middle of the towers: Jin Mao, the World Financial Center and the Shanghai Tower to the south-east',
         ljzMetro: 'an exit of Lujiazui metro station (Line 2), by the roundabout', ifc: 'outside Shanghai IFC on Century Avenue in Lujiazui, the office tower\'s lobby behind, taxis at the kerb',
         roundabout: 'the pavement by the Lujiazui roundabout in Pudong, under the ring footbridge, the Oriental Pearl Tower above', century: 'Century Avenue in Lujiazui, Pudong, among the office towers' }[z] || 'Lujiazui, Pudong';

diff --git a/src/ui/brands.js b/src/ui/brands.js
@@ -3,9 +3,9 @@
 // this is a private, non-commercial build). Brands Simple Icons doesn't carry (DiDi, JD, NIO, Li Auto,
 // AITO, UnionPay, China Merchants Bank, Manner) appear as their own name in their own colours,
 // a wordmark, not an invented symbol.
-import { siWechat, siAlipay, siTaobao, siStarbucks, siLamborghini, siApplepay, siVisa, siMastercard, siShanghaimetro } from 'simple-icons';
+import { siWechat, siAlipay, siTaobao, siStarbucks, siLamborghini, siApplepay, siVisa, siMastercard, siShanghaimetro, siHsbc } from 'simple-icons';
 
-const SI = { wechat: siWechat, alipay: siAlipay, taobao: siTaobao, starbucks: siStarbucks, lamborghini: siLamborghini, applepay: siApplepay, visa: siVisa, mastercard: siMastercard, shanghaimetro: siShanghaimetro };
+const SI = { wechat: siWechat, alipay: siAlipay, taobao: siTaobao, starbucks: siStarbucks, lamborghini: siLamborghini, applepay: siApplepay, visa: siVisa, mastercard: siMastercard, shanghaimetro: siShanghaimetro, hsbc: siHsbc };
 export const BRAND_COLOR = { wechat: '#07C160', alipay: '#1677FF', taobao: '#FF5000', jd: '#E1251B', didi: '#FF7A00', manner: '#111111', starbucks: '#006241', lamborghini: '#B6A272', unionpay: '#E21836', cmb: '#C8102E' };
 
 // <svg> of a Simple Icons mark (24 x 24 viewBox), in a colour

diff --git a/docs/lujiazui.md b/docs/lujiazui.md
@@ -33,7 +33,8 @@ point, landing), `metroArrive`, `greenGate`, `greenBenches[]`, `greenLawn`, `rin
 
 ## What is there
 
-![Apple Pudong's plaza, Two IFC and the mall by day](ljz-apple-plaza.png)
+![Apple Pudong from the top of the broad steps](ljz-apple-plaza.png)
+![In the sunken court](ljz-apple-court.png)
 ![The cylinder and the Pearl at dusk](ljz-apple-dusk.png)
 ![Two IFC's lobby: the glass shows the sky and the city](ljz-ifc-glass.png)
 ![From the Mingzhu Ring: the IFC towers, the World Financial Center beyond](ljz-ring-ifc.png)
@@ -61,11 +62,18 @@ point, landing), `metroArrive`, `greenGate`, `greenBenches[]`, `greenLawn`, `rin
   上海国金中心商场 over the doors facing the cylinder and again toward the avenue, a directory totem
   (the mall, Apple, the Ritz-Carlton, Line 2). Two IFC's lobby is on the face toward Century Avenue
   (canopy, revolving doors, address stone): **E** at the door takes the lift to the 32nd floor.
-- **Apple Pudong.** OSM's paved round plaza (r 17.5 m) at street level, the 13 m glass cylinder at
-  its centre (twelve finless curved panels, a stainless ring, a shallow glass dome, the logo hung
-  inside facing the door, which faces the ring and the Pearl; it glows after dark), the spiral glass
-  stair round the glass lift down 5.6 m to the round store under the plaza (oak tables and shelving,
-  a ceiling of light rings, a shopfront to the mall's lower ground, a video wall).
+- **Apple Pudong.** A sunken round court one storey down, as in photographs of it (OSM's paved circle,
+  r 17.5 m, is its floor; the footway round it the walkways; its steps way the broad steps): broad
+  steps down from the street on the side toward the ring and the Pearl, three trees in planters on
+  them; curved walkways either side behind glass balustrades, sloping from the street down to a
+  landing at the back, an HSBC branch and a Starbucks at the floor beneath them, their names on the
+  walkways' white fascia; round stone planters with timber seats and trees on the floor; a glass rim
+  balustrade, the rim walk, a planted bed and trumpet-headed lamps above. The 13 m glass cylinder
+  stands on the court's floor (twelve finless curved panels, a stainless ring, a shallow glass dome,
+  the logo hung inside facing the door; a flat glass canopy hung over the door; a ring of glass floor
+  round its foot; it glows after dark); inside, the spiral glass stair round the glass lift down 5.6 m
+  to the round store under the court (OSM: level −2). Behind it the mall's glass is braced by a giant
+  steel X in each bay, as the photographs show.
 - **Lujiazui station.** Three stairwells at OSM's entrances 1, 4 and 6 with Shanghai Metro's mark, the station's
   name, Line 2 and Line 14 badges, exit numbers. On a landing: **E** at the way in rides one stop back
   to East Nanjing Road (¥3); **E** at the side wall goes through to the next exit.
@@ -108,7 +116,10 @@ Still approximate:
 - Facades are generic per kind (four kinds of glass, three of block) chosen by OSM's material tag,
   height and a hash: they are not the buildings' real facades. The IFC crowns' shape is from memory.
 - Super Brand Mall's sign is placed on its face toward the roundabout; no other building is named.
-- The store under the plaza is drawn round (r 16.2 m) inside OSM's store outline.
+- The court's depth (5.65 m), the walkways' slope and their landing at the back, the steps' extent
+  (±34° of the door's bearing, out to 31 m) and the planters are read from two photographs, not
+  measured. The shops' fronts are a generic texture. The store is drawn round (r 16.2 m) inside OSM's
+  store outline.
 - The game's Bund runs due north-south; this district is laid out to true north, so the two halves
   differ by the few degrees the real Bund is turned.
 
